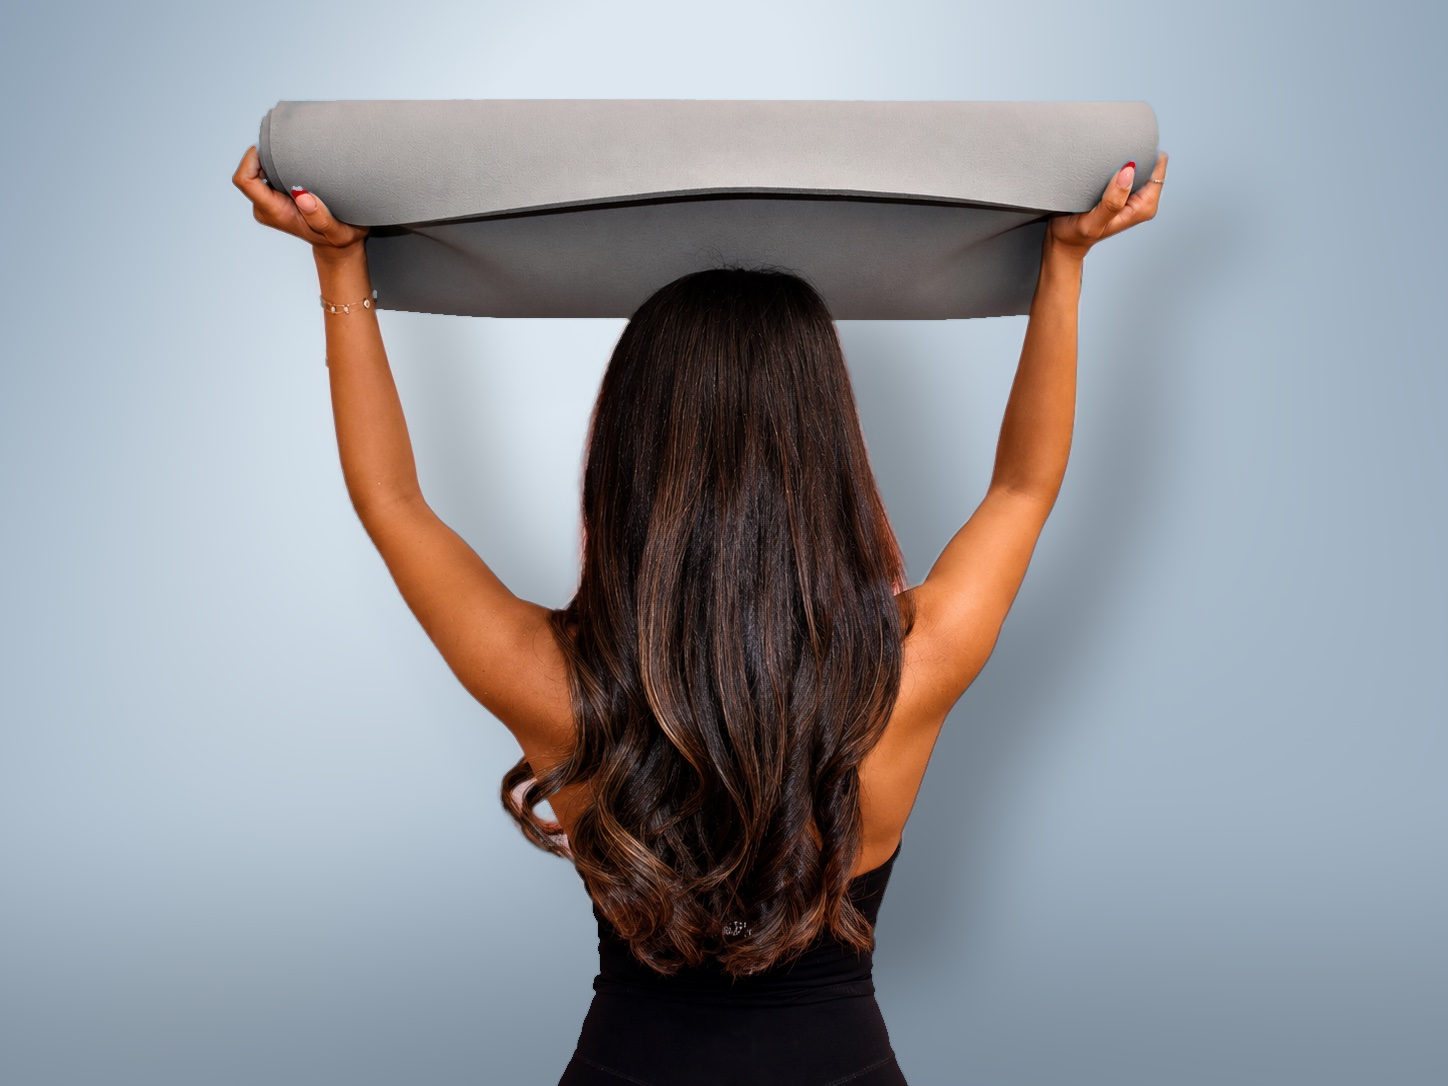
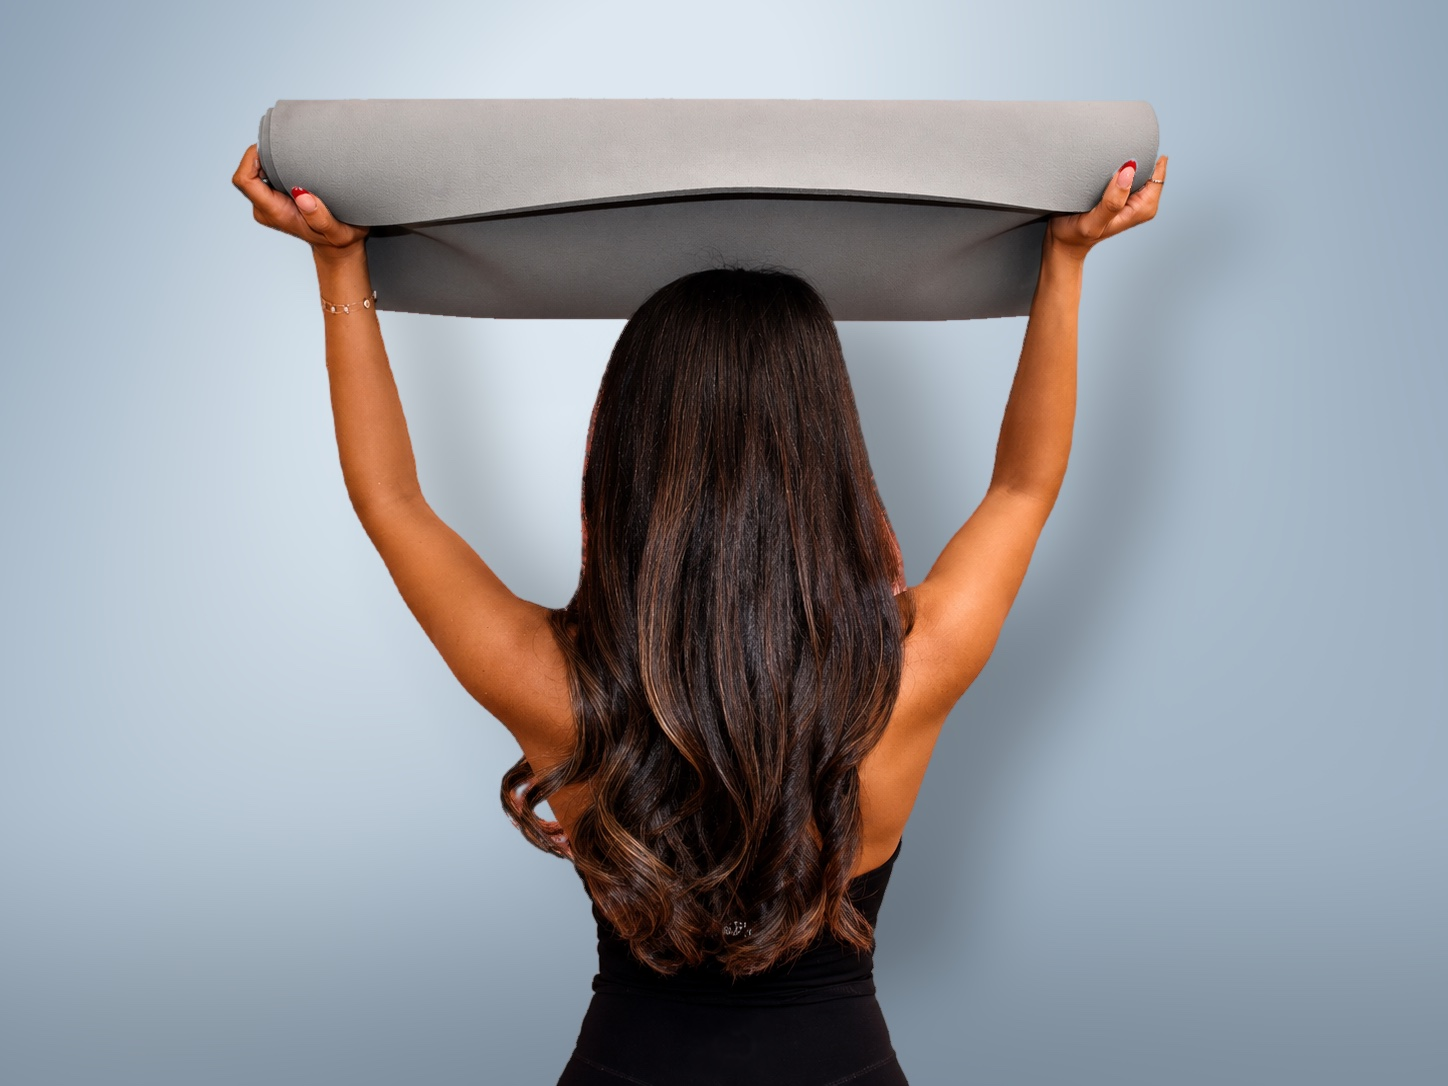
Crisp edges, no outlines, natural skin texture
- Foreground color extension: interior colors are pulled outward across
  the edge band so no pixel is a subject/old-background mix, then
  composited with a ~1px hard alpha cutoff — object color, then
  background, nothing between
- Hair edges are sharp strand silhouettes with no pink or blur
- Rebuilt from originals with no filtering over the subject interior, so
  skin keeps its full natural texture (no airbrushed look)
- Dark-red fringe along fabric edges desaturated; CSB removal, elbow
  shadow, and clear-bottle fixes reapplied

diff --git a/index.html b/index.html
@@ -60,7 +60,7 @@
           </div>
           <div class="hero-visual">
             <div class="hero-photo">
-              <img src="./assets/lifestyle-hero.jpg?v=9" alt="A woman holding a rolled FormAlign mat above her head" />
+              <img src="./assets/lifestyle-hero.jpg?v=10" alt="A woman holding a rolled FormAlign mat above her head" />
             </div>
             <div class="feedback-card" aria-hidden="true">
               <div class="fc-title">
@@ -83,7 +83,7 @@
         <div class="wrap split">
           <div class="reveal">
             <div class="split-photo">
-              <img src="./assets/lifestyle-walk.jpg?v=9" alt="A woman carrying a rolled exercise mat" loading="lazy" />
+              <img src="./assets/lifestyle-walk.jpg?v=10" alt="A woman carrying a rolled exercise mat" loading="lazy" />
             </div>
           </div>
           <div class="reveal reveal-d1">